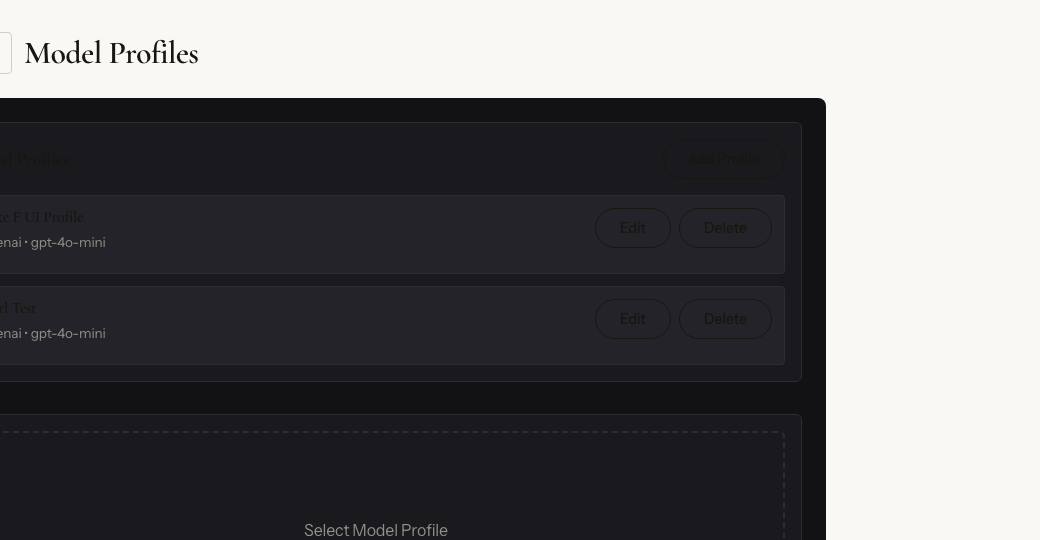
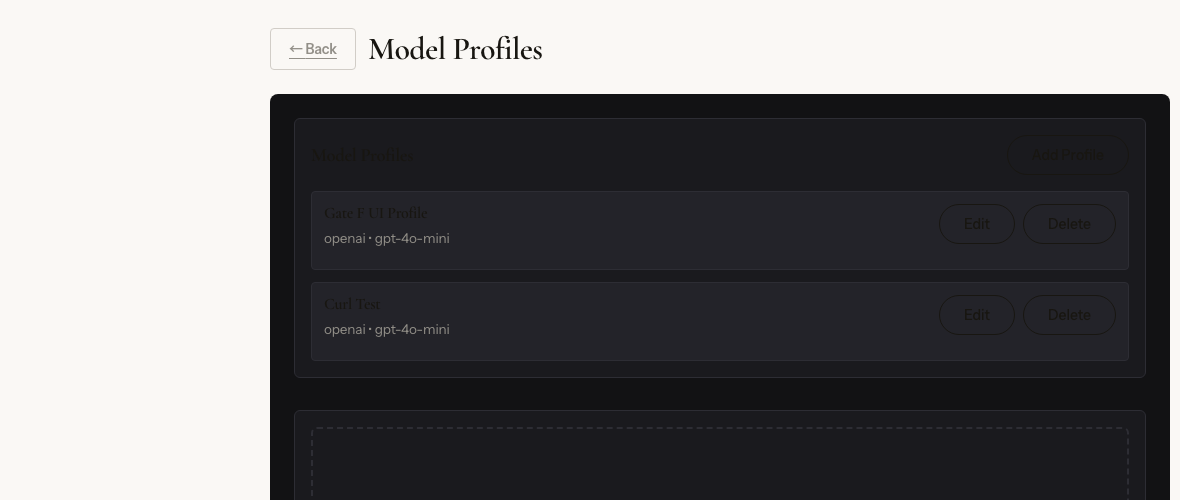
fix(site): address codex+agy review of intro-page features
- Critical (codex): correct 2 copy overclaims vs real code:
  - F43 public artifact INCLUDES the question (only keys/private fields are
    stripped) — drop the false "no question details leaked" claim (site + FEATURES zh/en)
  - F48 local pack import only loads question + suggested settings, not the
    whole pack body — fix "loads a whole pack" claim (site + FEATURES zh/en)
- Warning (codex): F44 copy now distinguishes multi-run histograms from the
  probability-sampling chart shown in the screenshot
- High (agy): recapture 25-model-profiles.png from x=0 (no left-edge crop) and
  22-local-packs.png as landscape (was portrait, bottom cropped by card cover)

diff --git a/site/app.js b/site/app.js
@@ -32,9 +32,9 @@
     { id: "F38", img: "01-home.png", hero: false, config: true, zt: "搜索增强推演", et: "Search-Augmented Simulation",
       zd: "打开后系统会在推演前搜索资料并把相关片段注入角色提示，推荐路径优先用服务端已配置搜索，高级路径允许本轮用自己的 provider。", ed: "When enabled, the system searches before simulating and injects relevant snippets into role prompts; the recommended path uses server-configured search, the advanced path lets you use your own provider for the round." },
     { id: "F48", img: "22-local-packs.png", hero: false, zt: "本地主题包", et: "Local Packs",
-      zd: "首页的「本地主题包」收录一批双语预设场景（含提示词、押注点和素材），点一下就把整包带入推演，适合快速上手或课堂演示。", ed: "The home page bundles bilingual preset packs (with prompts, betting hooks and material); one click loads a whole pack into a run — handy for a quick start or a classroom demo." },
+      zd: "首页的「本地主题包」收录一批双语预设场景，可搜索、预览，点一下就把场景的问题和推荐设置填入提问框，适合快速上手或课堂演示。", ed: "The home page bundles bilingual preset packs you can search and preview; one click fills the question box with the pack’s question and suggested settings — handy for a quick start or a classroom demo." },
     { id: "F44", img: "23-multi-run.png", hero: false, zt: "多次推演分布", et: "Multi-Run Distribution",
-      zd: "同一个问题可以一次跑多遍，结果页把这组推演的结局分布和概率采样画出来，看清哪些结局更稳、哪些只是偶然。", ed: "Run the same question several times; the result page charts the spread of endings and a probability sampling, so the stable outcomes stand out from the flukes." },
+      zd: "同一个问题可以连跑多次，结果页用直方图汇总各次的结局分布；单次推演也会用概率采样图（如图）展示各结局的可能性。", ed: "Run the same question several times and the result page sums the endings into histograms; a single run also shows a probability-sampling chart (pictured) of how likely each ending is." },
     { id: "F47", img: "24-document-seed.png", hero: false, zt: "文档种子", et: "Document Seed",
       zd: "首页可上传 PDF、TXT 或 Markdown，系统把内容提炼成推演背景，让 Agent 基于你的资料展开，而不只凭一句问题。", ed: "Upload a PDF, TXT or Markdown on the home page and the system distills it into the run’s backdrop, so agents build on your material rather than a single question." },
     { id: "F42", img: "25-model-profiles.png", hero: false, zt: "模型配置", et: "Model Profiles",
@@ -44,7 +44,7 @@
     { id: "F46", img: "02-result.png", hero: false, zt: "社交动态与头条卡", et: "Social Feed & Headline Cards",
       zd: "结果页的「社交动态」把推演结果改写成几条社交平台风格的头条卡片，可一键复制文字或下载图片，方便分享。", ed: "The result page’s Social Feed rewrites your outcome into a few platform-styled headline cards you can copy as text or download as images." },
     { id: "F43", img: "02-result.png", hero: false, zt: "公开分享与画廊", et: "Public Sharing & Gallery",
-      zd: "结果页分享弹窗可导出脱敏的公开 artifact——一份去私密字段的 JSON，或一个能离线打开的单文件 HTML 画廊，发给别人看也不带出你的提问细节。", ed: "The share dialog exports a redacted public artifact — a JSON with private fields stripped, or a single-file HTML gallery that opens offline — so you can share without leaking your question details." }
+      zd: "结果页分享弹窗可导出脱敏的公开 artifact——去掉密钥和私密字段的 JSON，或一个能离线打开的单文件 HTML 画廊，方便把你的世界线公开展示给别人。", ed: "The share dialog exports a redacted public artifact — a JSON with keys and private fields stripped, or a single-file HTML gallery that opens offline — to publish your worldline for others." }
   ];
 
   var MODES = [

diff --git a/docs/FEATURES.en.md b/docs/FEATURES.en.md
@@ -228,7 +228,7 @@ Entry: `/result/:id` -> full report; standalone page `/result/:id/report`
 Entry: `/model-profiles`; you can also pick a saved profile from the home page and debate setup
 
 ### F43 Public Artifacts and Gallery
-**Enabled by default, see [CONFIGURATION](CONFIGURATION.en.md).** The result page share modal can export a de-identified public artifact: a JSON with private fields stripped, or a single-file HTML gallery you can open offline. It is meant for showing a result to others without leaking your prompt details or keys.
+**Enabled by default, see [CONFIGURATION](CONFIGURATION.en.md).** The result page share modal can export a de-identified public artifact: a JSON with keys and private fields stripped, or a single-file HTML gallery you can open offline. It is meant for sharing a result publicly: the export drops API keys and private fields, while your question and the endings travel with the artifact (that is the part you are sharing).
 Entry: `/result/:id` -> Share -> export public artifact / HTML gallery
 
 ### F44 Multi-Run Distribution
@@ -248,5 +248,5 @@ Entry: `/result/:id` -> "Social Feed"
 Entry: `/` home -> upload a document as background
 
 ### F48 Local Packs
-**Enabled by default, see [CONFIGURATION](CONFIGURATION.en.md).** "Local Packs" on the home page bundle preset scenarios (bilingual, with prompts, stakes, and materials); one click carries a whole pack into a simulation, which is handy for getting started or for classroom demos. Packs live in the repo's `packs/` directory, so you can add or remove your own.
+**Enabled by default, see [CONFIGURATION](CONFIGURATION.en.md).** "Local Packs" on the home page bundle preset scenarios (bilingual, with prompts, stakes, and materials you can preview after picking a pack); one click fills the question box with the pack's question and suggested settings, which is handy for getting started or for classroom demos. Packs live in the repo's `packs/` directory, so you can add or remove your own.
 Entry: `/` home -> Local Packs -> pick a pack / Manage all
